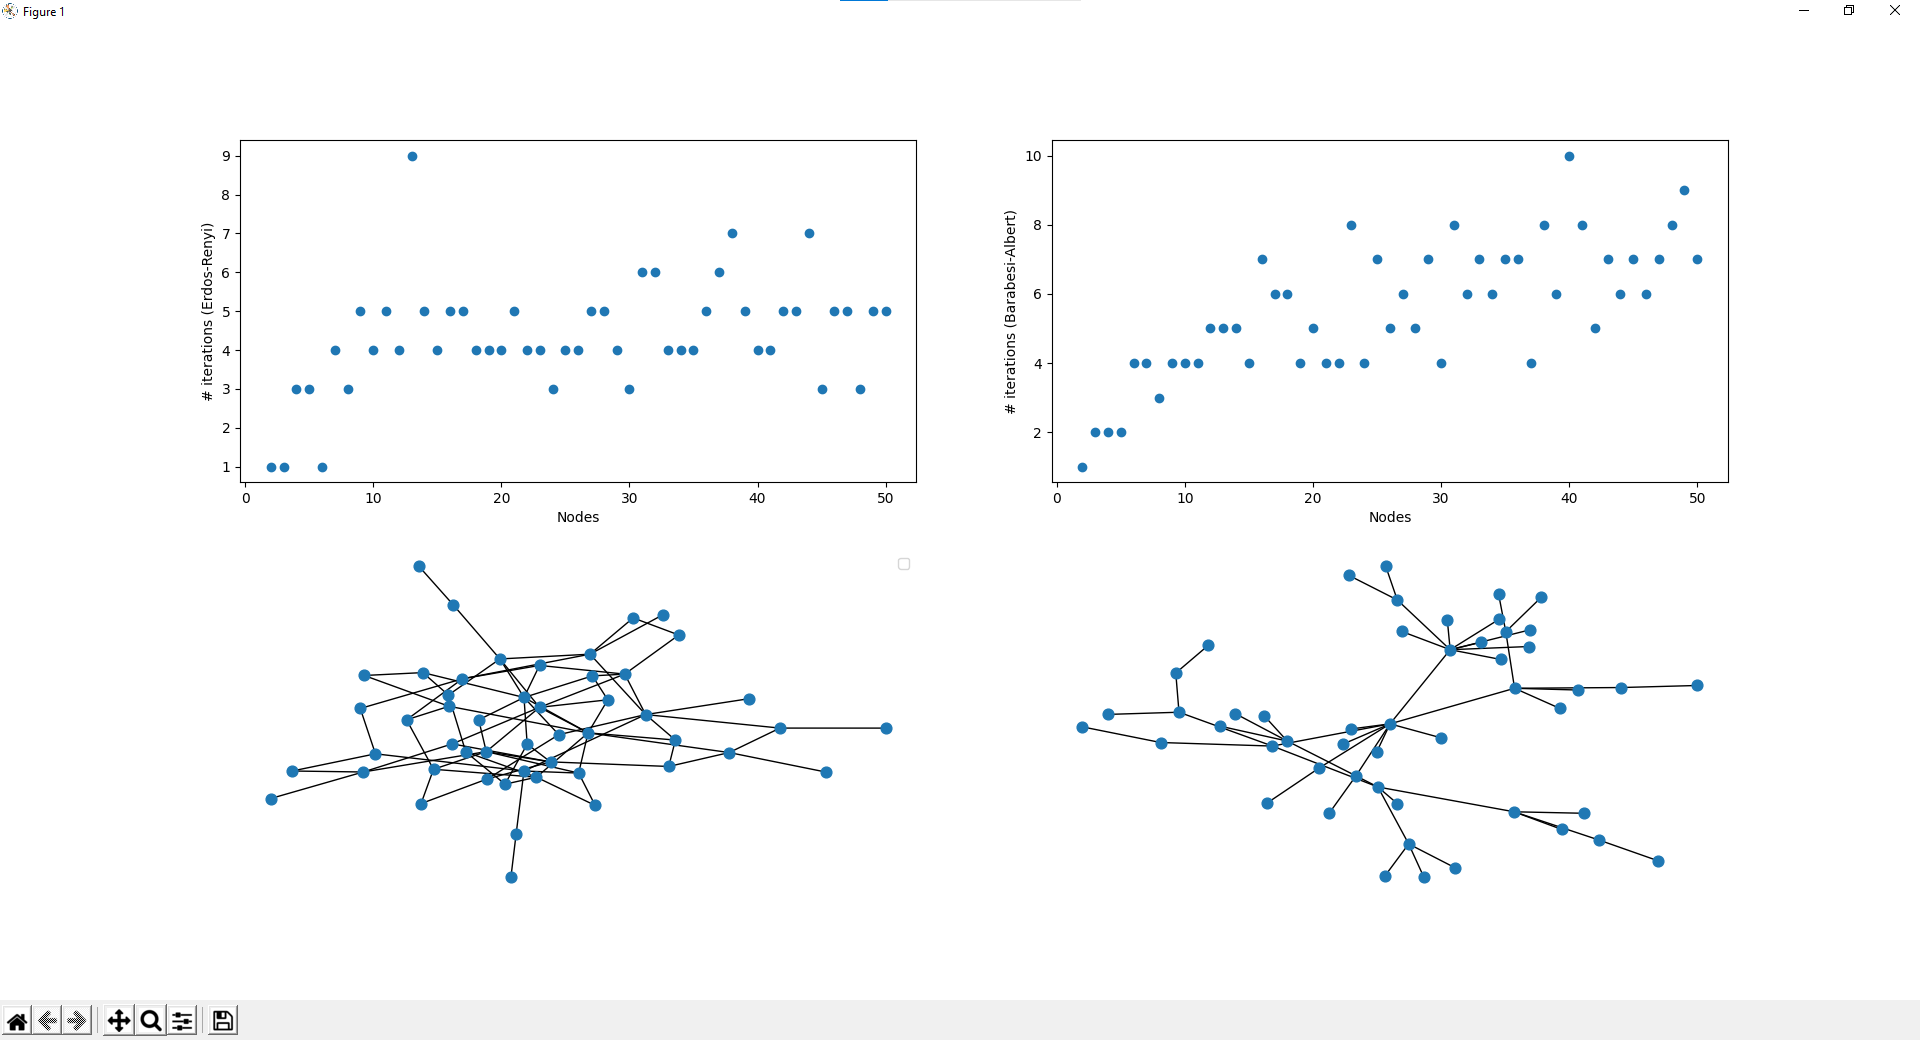
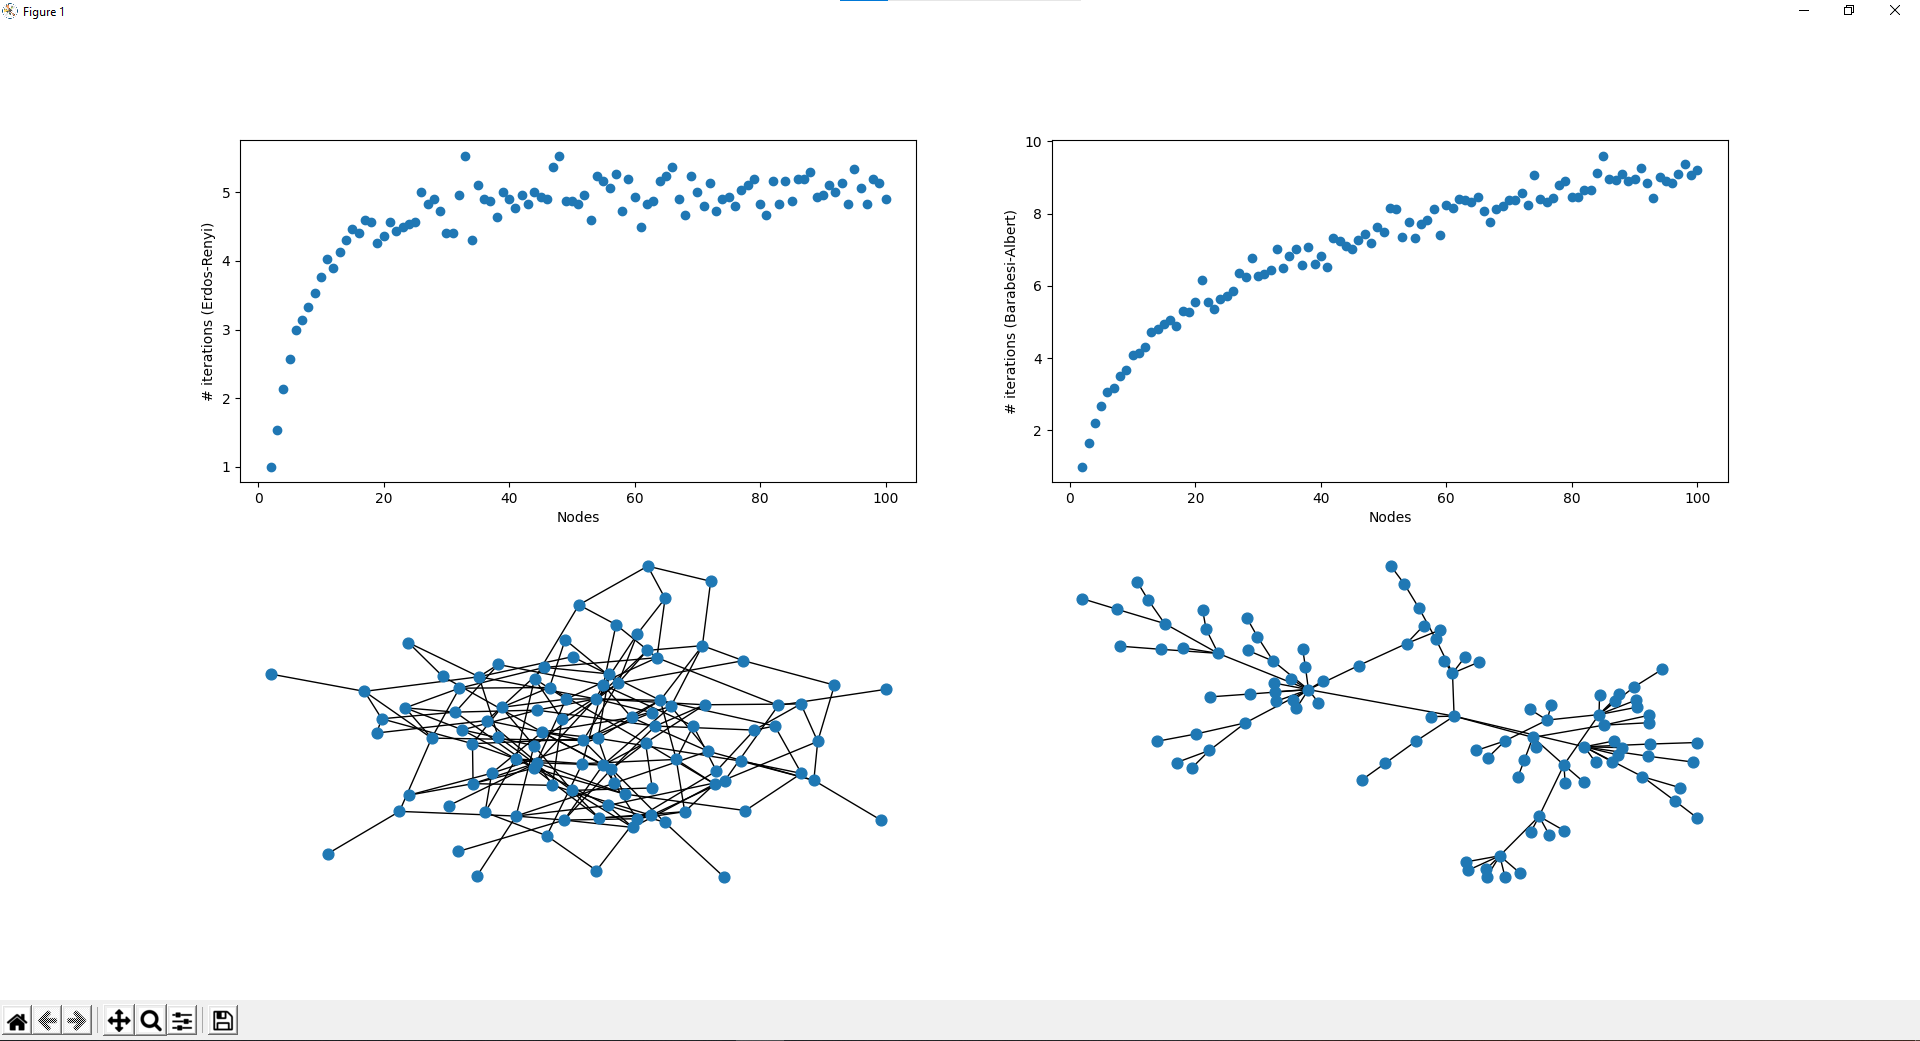
g03

diff --git a/guioes/guiao03/guiao03.py b/guioes/guiao03/guiao03.py
@@ -5,6 +5,10 @@ import matplotlib.pyplot as plot
 import numpy as np
 
 nr_nodes = 100
+repeat = 30
+
+def remove_duplicates(l):
+    return list(set(l))
 
 def flooding(graph, n): 
     seen = [False] * n
@@ -25,12 +29,15 @@ def flooding(graph, n):
 
     return counter
 
-def gossip_select(neighbors, probability):
-    mask = np.random.binomial(1, probability, len(neighbors))
+def gossip_select(neighbors, percentage):
+    mask = np.random.binomial(1, percentage, len(neighbors))
     result = [elem for keep, elem in zip(mask, neighbors) if keep]
     if not result:
         result.append(neighbors[0])
     return result
+    #k = int(round(len(neighbors)*percentage))
+    #indexes = random.sample(range(len(neighbors)),k)
+    #return [neighbors[i] for i in indexes]
 
 def gossip(graph, n, percentage): 
     seen = [False] * n
@@ -48,7 +55,8 @@ def gossip(graph, n, percentage):
                 new_neighbors += gossip_select(list(graph.neighbors(node)),percentage)
                 seen[node] = True
         counter += 1
-        neighbors = new_neighbors
+        neighbors = remove_duplicates(new_neighbors)
+
     return sum(i == True for i in seen) / n
 
 def flooding_plot(nr_nodes): 
@@ -58,10 +66,14 @@ def flooding_plot(nr_nodes):
 
     for i in iterations[2:]:
         x.append(i)
-        graph1 = graphs.erdos_renyi(i)
-        y1.append(flooding(graph1, i))
-        graph2 = graphs.barabesi_albert(i)
-        y2.append(flooding(graph2, i))
+        avg1, avg2 = [], []
+        for j in range(repeat):
+            graph1 = graphs.erdos_renyi(i)
+            avg1.append(flooding(graph1, i))
+            graph2 = graphs.barabesi_albert(i)
+            avg2.append(flooding(graph2, i))
+        y1.append( sum(avg1) / repeat )
+        y2.append( sum(avg2) / repeat )
 
     plot.subplot(2, 2, 1)
     plot.scatter(x, y1)
@@ -84,22 +96,26 @@ def gossip_plot(nr_nodes):
     percentages = np.arange(0.1, 1.1, 0.1)
     x, y1, y2 = [], [], []
     graph1 = graphs.erdos_renyi(nr_nodes)
-    graph2 = graphs.barabesi_albert(nr_nodes)
+    graph2 = graphs.barabesi_albert_redundance(nr_nodes)
 
     for percentage in percentages:
+        avg1, avg2 = [], []
         x.append(percentage)
-        y1.append(gossip(graph1, nr_nodes, percentage))
-        y2.append(gossip(graph2, nr_nodes, percentage))
+        for j in range(repeat): 
+            avg1.append(gossip(graph1, nr_nodes, percentage))
+            avg2.append(gossip(graph2, nr_nodes, percentage))
+        y1.append( sum(avg1) / repeat )
+        y2.append( sum(avg2) / repeat )
 
     plot.subplot(2, 2, 1)
     plot.scatter(x, y1)
     plot.xlabel('% Subset')
-    plot.ylabel('% nodes (Erdos-Renyi)')
+    plot.ylabel('% ' + str(nr_nodes) + ' nodes (Erdos-Renyi)')
 
     plot.subplot(2, 2, 2)
     plot.scatter(x, y2)
     plot.xlabel('% Subset')
-    plot.ylabel('% nodes (Barabesi-Albert)')
+    plot.ylabel('% ' + str(nr_nodes) + ' nodes (Barabesi-Albert)')
 
     plot.subplot(2, 2, 3)
     nx.draw(graph1,node_size=60,font_size=8) 
@@ -108,4 +124,5 @@ def gossip_plot(nr_nodes):
     nx.draw(graph2,node_size=60,font_size=8) 
     plot.show()
 
-gossip_plot(100)
+gossip_plot(nr_nodes)
+#flooding_plot(nr_nodes)

diff --git a/guioes/guiao03/graphs.py b/guioes/guiao03/graphs.py
@@ -1,5 +1,7 @@
 import networkx as nx
 import random
+from itertools import combinations
+from random import choice, sample
 
 def erdos_renyi(n):
     g = nx.Graph()
@@ -19,12 +21,26 @@ def barabesi_albert(n):
         g.add_node(u)
         v = random.choice(choices)
         choices.append(u)
-        choices.append(u)
         choices.append(v)
         g.add_edge(u,v)
     return g
 
-#g = barabesi_albert(100)
-
-#nx.draw(g,node_size=60,font_size=8) 
-#plot.show()
+def barabesi_albert_redundance(n):
+    nodes = []
+    edges = []
+    g = nx.Graph()
+    choices = [0]
+    for u in range(1,n):
+        g.add_node(u)
+        v = random.choice(choices)
+        choices.append(u)
+        choices.append(v)
+        g.add_edge(u,v)
+    # needs redundance otherwise using a percentage of the subset will result in poor results
+    for u in range(1,n):
+        g.add_node(u)
+        v = random.choice(choices)
+        choices.append(u)
+        choices.append(v)
+        g.add_edge(u,v)
+    return g
